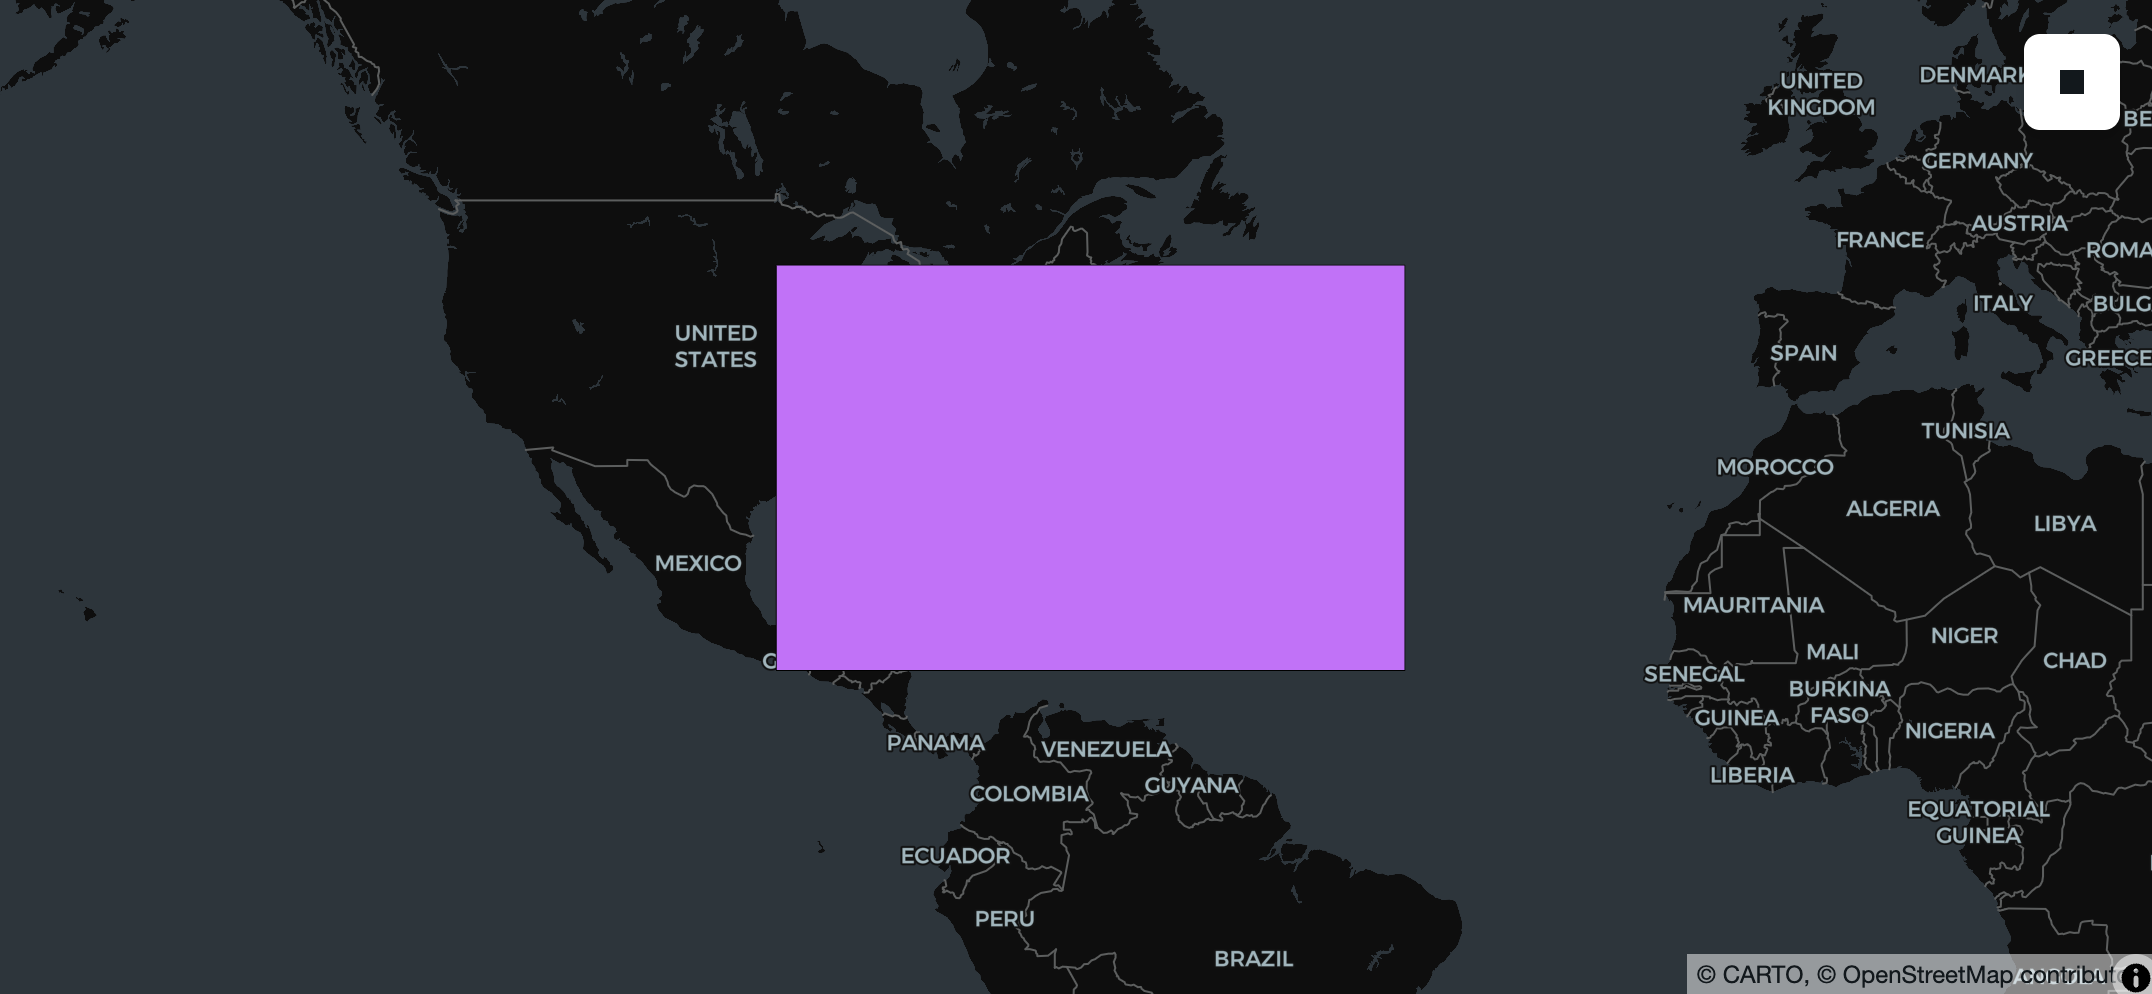
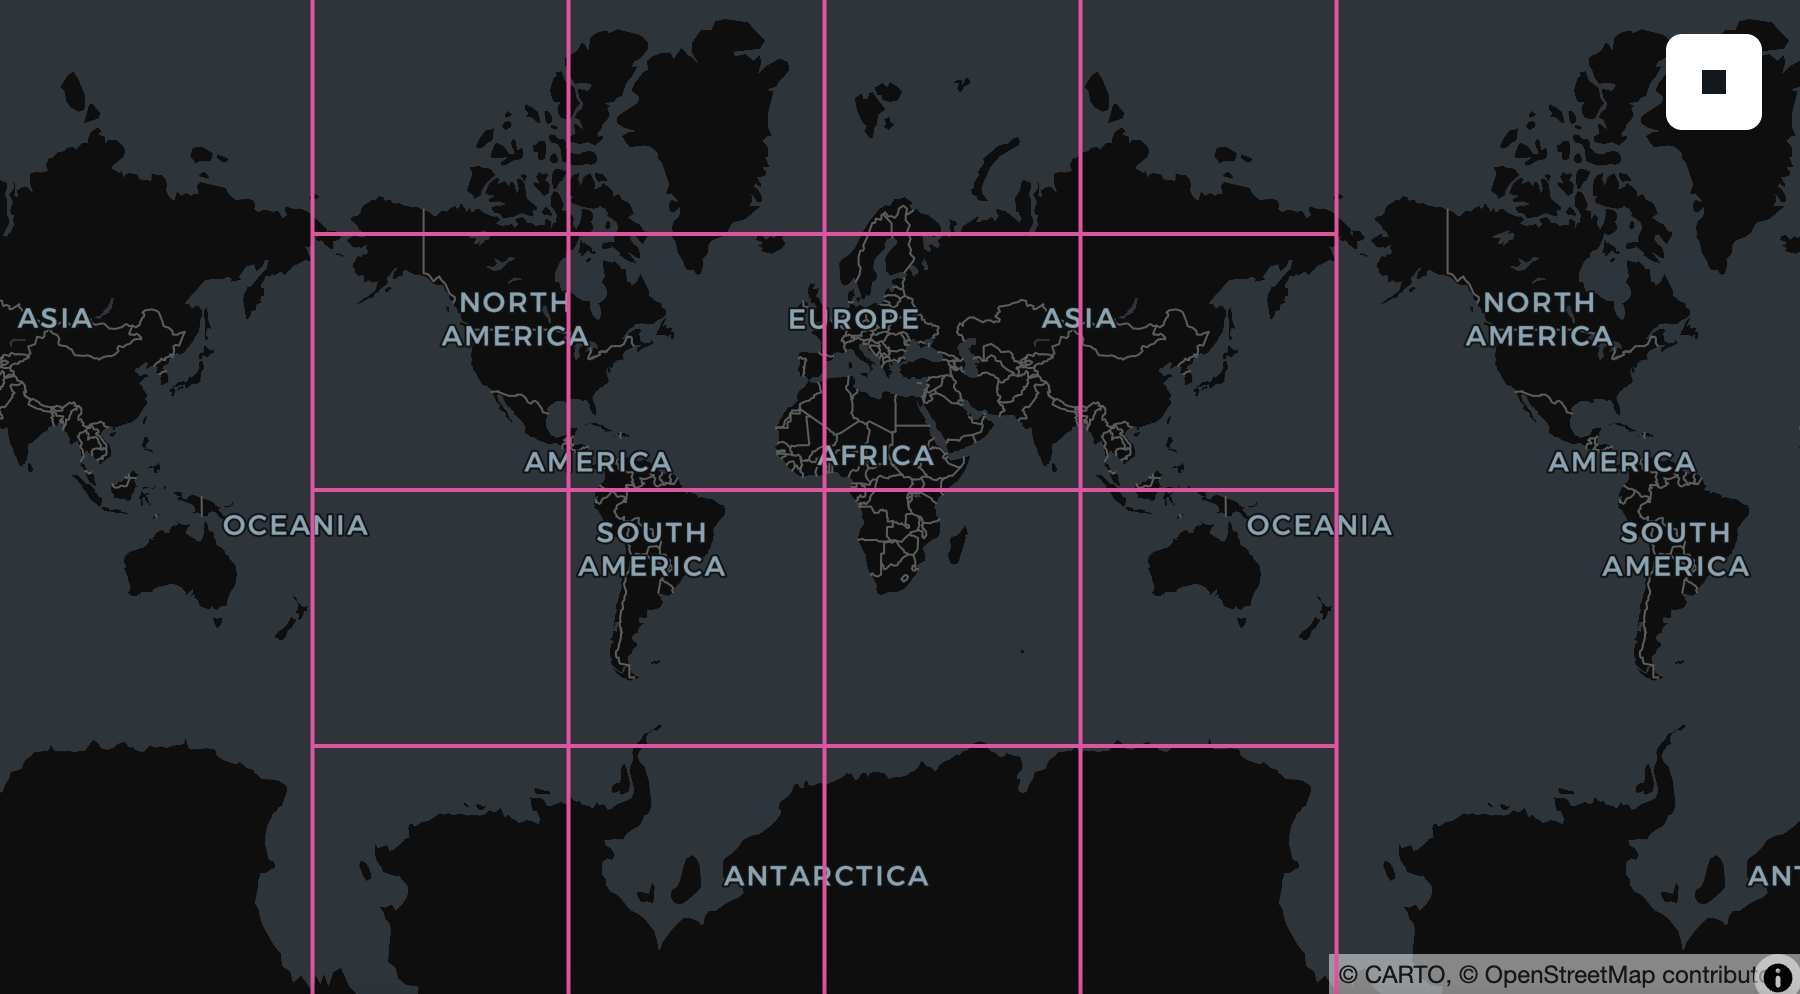
update

diff --git a/docs/blog/posts/intro-sedonadb-0-4.md b/docs/blog/posts/intro-sedonadb-0-4.md
@@ -16,7 +16,7 @@ title: "SedonaDB 0.4.0 Release"
 
 The Apache Sedona community is excited to announce the release of [SedonaDB](https://sedona.apache.org/sedonadb) version 0.4.0!
 
-SedonaDB is the first open-source, single-node analytical database engine that treats spatial data as a first-class citizen. It is developed as a subproject of Apache Sedona. This release consists of 187 resolved issues including XX new functions from 15 contributors.
+SedonaDB is the first open-source, single-node analytical database engine that treats spatial data as a first-class citizen. It is developed as a subproject of Apache Sedona. This release consists of 187 resolved issues including 26 new functions from 15 contributors.
 
 Apache Sedona powers large-scale geospatial processing on distributed engines like Spark (SedonaSpark), Flink (SedonaFlink), and Snowflake (SedonaSnow). SedonaDB extends the Sedona ecosystem with a single-node engine optimized for small-to-medium data analytics, delivering the simplicity and speed that distributed systems often cannot.
 
@@ -348,7 +348,7 @@ parquet.ParquetFile("countries-geog.parquet").schema
 
 
 
-    <pyarrow._parquet.ParquetSchema object at 0x11f127cc0>
+    <pyarrow._parquet.ParquetSchema object at 0x1174f3680>
     required group field_id=-1 arrow_schema {
       optional binary field_id=-1 name (String);
       optional binary field_id=-1 continent (String);
@@ -377,86 +377,74 @@ import sedonadb_zarr
 # Register Zarr functionality with a SedonaDB session
 sd.register(sedonadb_zarr.ZarrExtension())
 
-# A public ERA5 reanalysis cube around Hurricane Florence (Zarr v3, anonymous).
-# This is a metadata read only: no pixels fetched, even against a large remote cube.
-url = "https://atlantis-vis-o.s3-ext.jc.rl.ac.uk/hurricanes/era5/florence"
 
-# The group URL has no `.zarr` suffix, so name the format explicitly.
-cube = sd.read(
-    url,
-    format="zarr",
-    options={"arrays": ["velocity", "u_component_of_wind", "v_component_of_wind"]},
-)
+# A public ERA5 rainfall pyramid (Zarr, anonymous). Reading + inspecting
+# dimensions is a metadata-only round-trip — no pixel bytes fetched.
+url = "https://weathermapdata.rdrn.me/era5_2015_2020_l5.zarr/2"
+spec = sedonadb_zarr.Zarr().with_options({"arrays": ["rain_ok"]})
+cube = sd.read(url, format=spec)
 
 cube.select(
-    f.rs_dimnames(cube.raster).alias("dims"),
-    f.rs_shape(cube.raster).alias("shape"),
-).show(5)
+    cube.raster.rst.num_dimensions().alias("ndim"),
+    cube.raster.rst.dim_names().alias("dims"),
+    cube.raster.rst.shape().alias("shape"),
+    cube.raster.rst.srid().alias("srid"),
+).show(1)
 ```
 
-    ┌────────────────────────────────────┬──────────────────┐
-    │                dims                ┆       shape      │
-    │                list                ┆       list       │
-    ╞════════════════════════════════════╪══════════════════╡
-    │ [time, level, latitude, longitude] ┆ [1, 1, 121, 221] │
-    ├╌╌╌╌╌╌╌╌╌╌╌╌╌╌╌╌╌╌╌╌╌╌╌╌╌╌╌╌╌╌╌╌╌╌╌╌┼╌╌╌╌╌╌╌╌╌╌╌╌╌╌╌╌╌╌┤
-    │ [time, level, latitude, longitude] ┆ [1, 1, 121, 221] │
-    ├╌╌╌╌╌╌╌╌╌╌╌╌╌╌╌╌╌╌╌╌╌╌╌╌╌╌╌╌╌╌╌╌╌╌╌╌┼╌╌╌╌╌╌╌╌╌╌╌╌╌╌╌╌╌╌┤
-    │ [time, level, latitude, longitude] ┆ [1, 1, 121, 221] │
-    ├╌╌╌╌╌╌╌╌╌╌╌╌╌╌╌╌╌╌╌╌╌╌╌╌╌╌╌╌╌╌╌╌╌╌╌╌┼╌╌╌╌╌╌╌╌╌╌╌╌╌╌╌╌╌╌┤
-    │ [time, level, latitude, longitude] ┆ [1, 1, 121, 221] │
-    ├╌╌╌╌╌╌╌╌╌╌╌╌╌╌╌╌╌╌╌╌╌╌╌╌╌╌╌╌╌╌╌╌╌╌╌╌┼╌╌╌╌╌╌╌╌╌╌╌╌╌╌╌╌╌╌┤
-    │ [time, level, latitude, longitude] ┆ [1, 1, 121, 221] │
-    └────────────────────────────────────┴──────────────────┘
+    ┌───────┬──────────────┬───────────────┬────────┐
+    │  ndim ┆     dims     ┆     shape     ┆  srid  │
+    │ int32 ┆     list     ┆      list     ┆ uint32 │
+    ╞═══════╪══════════════╪═══════════════╪════════╡
+    │     3 ┆ [year, y, x] ┆ [1, 128, 128] ┆   3857 │
+    └───────┴──────────────┴───────────────┴────────┘
 
 
 `sedonadb-zarr` emits one row per Zarr chunk, so the storage layout *is* the data layout. SedonaDB stays lazy about pixels: reading the group and inspecting its dimensions (`RS_DimNames`, `RS_Shape`, `RS_DimSize`, `RS_NumDimensions`) touches only the group schema, which is a small metadata round-trip, with no pixel bytes fetched. A chunk's bytes are read only when an operation actually needs them. `RS_Slice` is currently one such operation: it resolves the chunks the query touches, then slices.
 
 
 ```python
-cube.select(
-    f.rs_slice(cube.raster, "time", 0).alias("step")
-).show(5)
+sliced = cube.select(plane=cube.raster.rst.slice("year", 0))
+sliced.select(
+    dims=sliced.plane.rst.dim_names(),
+    shape=sliced.plane.rst.shape(),
+).show(1)
 ```
 
-    ┌───────────────────────────────────────────────────────────┐
-    │                            step                           │
-    │                           raster                          │
-    ╞═══════════════════════════════════════════════════════════╡
-    │ [221x121/3] @ [264.875 14.875 320.125 45.125] / EPSG:4326 │
-    ├╌╌╌╌╌╌╌╌╌╌╌╌╌╌╌╌╌╌╌╌╌╌╌╌╌╌╌╌╌╌╌╌╌╌╌╌╌╌╌╌╌╌╌╌╌╌╌╌╌╌╌╌╌╌╌╌╌╌╌┤
-    │ [221x121/3] @ [264.875 14.875 320.125 45.125] / EPSG:4326 │
-    ├╌╌╌╌╌╌╌╌╌╌╌╌╌╌╌╌╌╌╌╌╌╌╌╌╌╌╌╌╌╌╌╌╌╌╌╌╌╌╌╌╌╌╌╌╌╌╌╌╌╌╌╌╌╌╌╌╌╌╌┤
-    │ [221x121/3] @ [264.875 14.875 320.125 45.125] / EPSG:4326 │
-    ├╌╌╌╌╌╌╌╌╌╌╌╌╌╌╌╌╌╌╌╌╌╌╌╌╌╌╌╌╌╌╌╌╌╌╌╌╌╌╌╌╌╌╌╌╌╌╌╌╌╌╌╌╌╌╌╌╌╌╌┤
-    │ [221x121/3] @ [264.875 14.875 320.125 45.125] / EPSG:4326 │
-    ├╌╌╌╌╌╌╌╌╌╌╌╌╌╌╌╌╌╌╌╌╌╌╌╌╌╌╌╌╌╌╌╌╌╌╌╌╌╌╌╌╌╌╌╌╌╌╌╌╌╌╌╌╌╌╌╌╌╌╌┤
-    │ [221x121/3] @ [264.875 14.875 320.125 45.125] / EPSG:4326 │
-    └───────────────────────────────────────────────────────────┘
+    ┌────────┬────────────┐
+    │  dims  ┆    shape   │
+    │  list  ┆    list    │
+    ╞════════╪════════════╡
+    │ [y, x] ┆ [128, 128] │
+    └────────┴────────────┘
 
 
 Because each row is a chunk, `.show(5)` touches exactly five chunks and a `.filter(...)` trims the set further, so you only fetch the chunks your query reaches. The data stays in the cloud until then. And because each chunk is a row with a real spatial footprint, you can put a Zarr on a map without decoding a single pixel. `RS_Envelope` turns each chunk into its bounding geometry, so you can see exactly where the cube's chunks fall:
 
 
 ```python
-chunks = cube.select(
-    f.rs_envelope(cube.raster)
-    .geo.transform(4326)
-    # Trick to normalize coordinates, which lonboard otherwise rejects
-    # as outside the lon/lat range
-    .geo.tessellate_geog(10_000)
-    .geo.tessellate_geom(10_000)
-    .alias("geom")
-)
+chunks = cube.select(geom=f.st_transform(cube.raster.rst.envelope(), "EPSG:4326"))
 
-lonboard.viz(chunks)
+# Draw outlines only, so the basemap shows through the chunk grid.
+lonboard.viz(
+    chunks,
+    polygon_kwargs=dict(
+        filled=False, stroked=True,
+        get_line_color=[236, 64, 160], line_width_min_pixels=2,
+    ),
+)
 ```
+
+
+
+
+    Map(basemap_style=<CartoBasemap.DarkMatter: 'https://basemaps.cartocdn.com/gl/dark-matter-gl-style/style.json'…
+
+
 
 ![Rendered Zarr chunks](intro-sedonadb-0-4-zarr-chunks.png)
 
-For the full walkthrough (load a cube, inspect its dimensions, slice a plane, and hand it to NumPy) see [Working with Zarr and NDArray data in SedonaDB](<LINK>).
-
-TODO: Add the link when docs for 0.4.0 are published
+For the full walkthrough (load a cube, inspect its dimensions, slice a plane, and hand it to NumPy) see [Working with Zarr and NDArray data in SedonaDB](https://sedona.apache.org/sedonadb/latest/working-with-zarr-ndarray-sedonadb/).
 
 In addition to a [redesign of our existing raster type to accomodate N-dimensional data](https://github.com/apache/sedona-db/pull/749), we added a number of `RS_` functions that mirror equivalents in Sedona Spark, with a focus on reading and extracting metadata. For example, in SedonaDB 0.4.0 it is also possible to extract the extent from a series of GeoTiffs and put them on a map.
 
@@ -477,9 +465,9 @@ lonboard.viz(envelopes)
 
 ![Sample GeoTiff locations](intro-sedonadb-0-4-tiff-chunks.png)
 
-While we're not ready to announce that SedonaDB fully supports raster data, we're excited at the foundation we we able to build for the 0.4.0 release and look forward to building this feature in earnest with the community over the next few months.
+While we're not ready to announce that SedonaDB fully supports raster data, we're excited at the foundation we we able to build for the 0.4.0 release and look forward to building this feature in earnest with the community over the next few months...we'd love your input on where it goes next! If you're working with datacubes or cloud-native raster data, [open an issue](https://github.com/apache/sedona-db/issues/new/choose) and tell us what you're building and what you need.
 
-Thank you to [Kontinuation](https://github.com/Kontinuation) for designing and driving the 2D improvements, and [james-willis](https://github.com/james-willis) for designing and driving N-dimensional/Zarr support!
+Thank you to [Kontinuation](https://github.com/Kontinuation) for designing and driving this the 2D improvements, and [james-willis](https://github.com/james-willis) for designing and driving N-dimensional/Zarr support!
 
 ## What's Next?
 